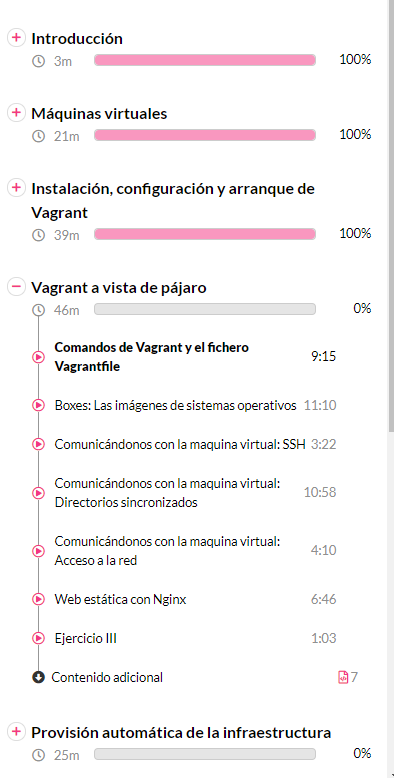
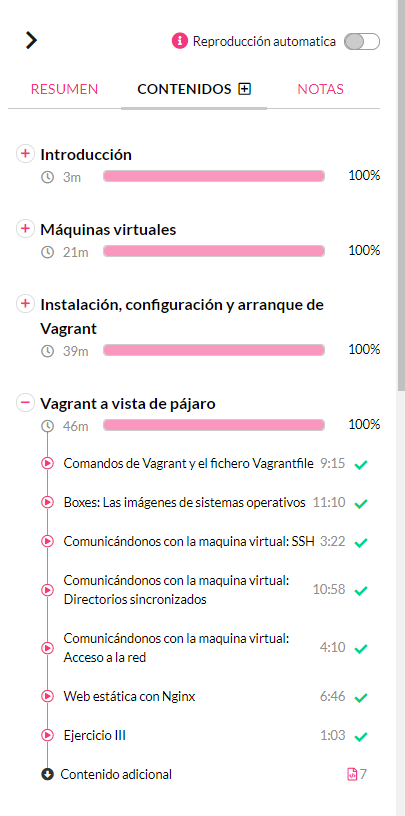
05/05/2020 2:04
14º Día
Completado bloque de "Vagrant vista de pajaro"

diff --git a/README.md b/README.md
@@ -72,3 +72,6 @@
 		-Completado bloque de "Maquinas virtuales"
 		-Completado bloque de "Instalacion, configuracion y arranque de Vagrant"
 		(Estos bloques ya fureon vistos en el anerior curso)
+	05/05/2020
+		-Completado bloque de "Vagrant vista de pajaro"
+		(Salvo dos puntos especificos vuelve a ser un repaso del anterior curso)
